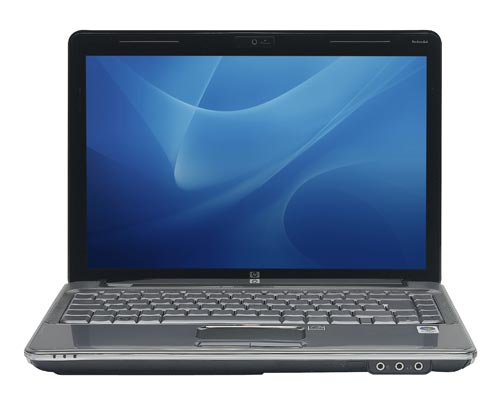
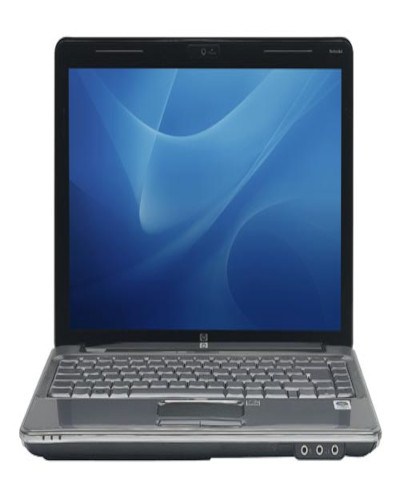
Resized images for repairs

diff --git a/layouts/partials/home/homep.html b/layouts/partials/home/homep.html
@@ -34,6 +34,11 @@
   <span class="dot" onclick="currentSlide(2)"></span>
   <span class="dot" onclick="currentSlide(3)"></span>
 </div> 
+<!-- End Hero Section-->
+
+<!-- About Section -->
+
+<!-- End About Section -->
 
 <!-- Repairs Section -->
 <div class="container">
@@ -49,7 +54,7 @@
     </div>
      <div class="col-sm-12 col-md-4">
       <div class="card-w">
-        <img src="/images/repairs/hp_1.jpg" alt="Hp Laptop" style="width:100%">
+        <img src="/images/repairs/2.jpg" alt="Hp Laptop" style="width:100%">
         <h1>HP Laptops</h1>
         <p class="price">R150.00</p>
         <p>We repair all types of hp products</p>
@@ -58,7 +63,7 @@
     </div>
      <div class="col-sm-12 col-md-4">
       <div class="card-w">
-        <img src="/images/repairs/hp_1.jpg" alt="Hp Laptop" style="width:100%">
+        <img src="/images/repairs/3.jpg" alt="Hp Laptop" style="width:100%">
         <h1>HP Laptops</h1>
         <p class="price">R150.00</p>
         <p>We repair all types of hp products</p>
@@ -67,7 +72,7 @@
     </div>
      <div class="col-sm-12 col-md-4">
       <div class="card-w">
-        <img src="/images/repairs/hp_1.jpg" alt="Hp Laptop" style="width:100%">
+        <img src="/images/repairs/4.jpg" alt="Hp Laptop" style="width:100%">
         <h1>HP Laptops</h1>
         <p class="price">R150.00</p>
         <p>We repair all types of hp products</p>
@@ -76,7 +81,7 @@
     </div>
      <div class="col-sm-12 col-md-4">
       <div class="card-w">
-        <img src="/images/repairs/hp_1.jpg" alt="Hp Laptop" style="width:100%">
+        <img src="/images/repairs/5.jpg" alt="Hp Laptop" style="width:100%">
         <h1>HP Laptops</h1>
         <p class="price">R150.00</p>
         <p>We repair all types of hp products</p>
@@ -85,7 +90,7 @@
     </div>
      <div class="col-sm-12 col-md-4">
       <div class="card-w">
-        <img src="/images/repairs/hp_1.jpg" alt="Hp Laptop" style="width:100%">
+        <img src="/images/repairs/6.jpg" alt="Hp Laptop" style="width:100%">
         <h1>HP Laptops</h1>
         <p class="price">R150.00</p>
         <p>We repair all types of hp products</p>
@@ -94,3 +99,7 @@
     </div>
   </div>
 </div>
+
+<!-- Contact Section -->
+
+<!-- End Contact Section -->
